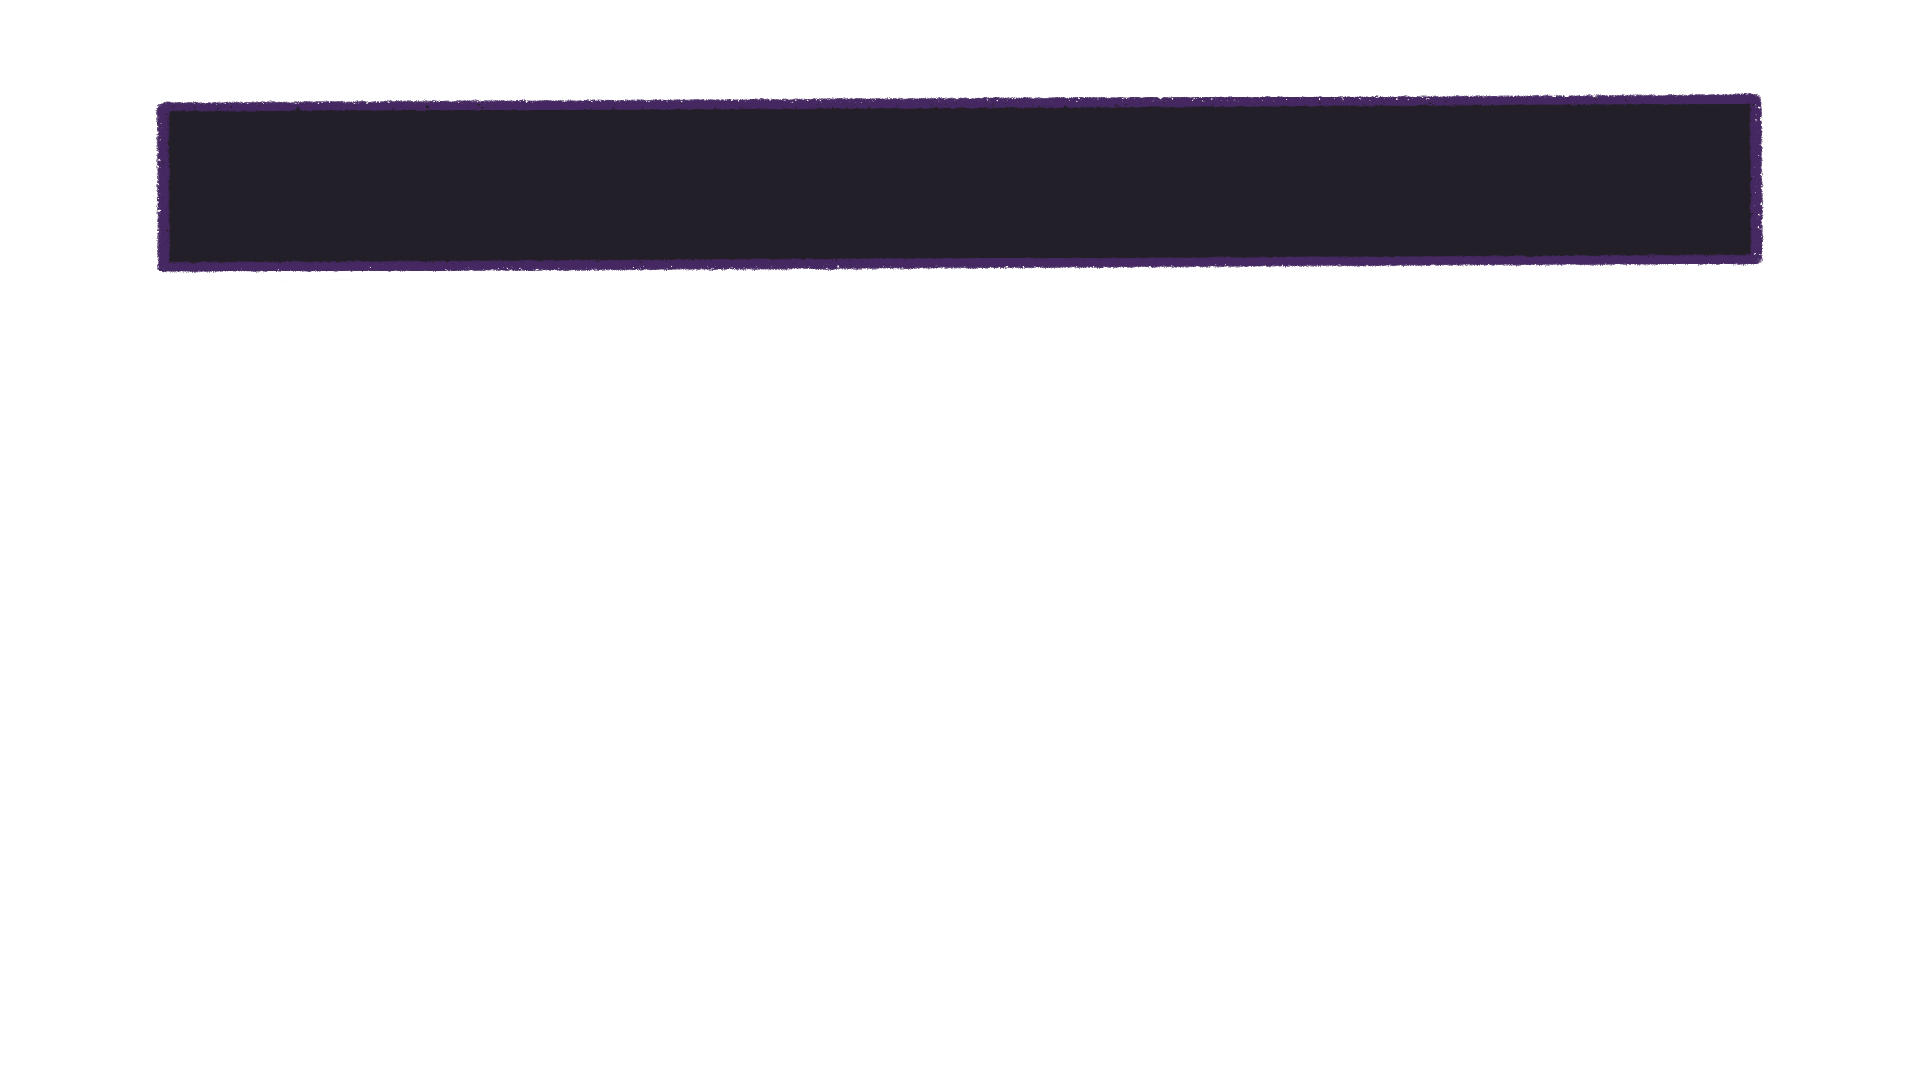
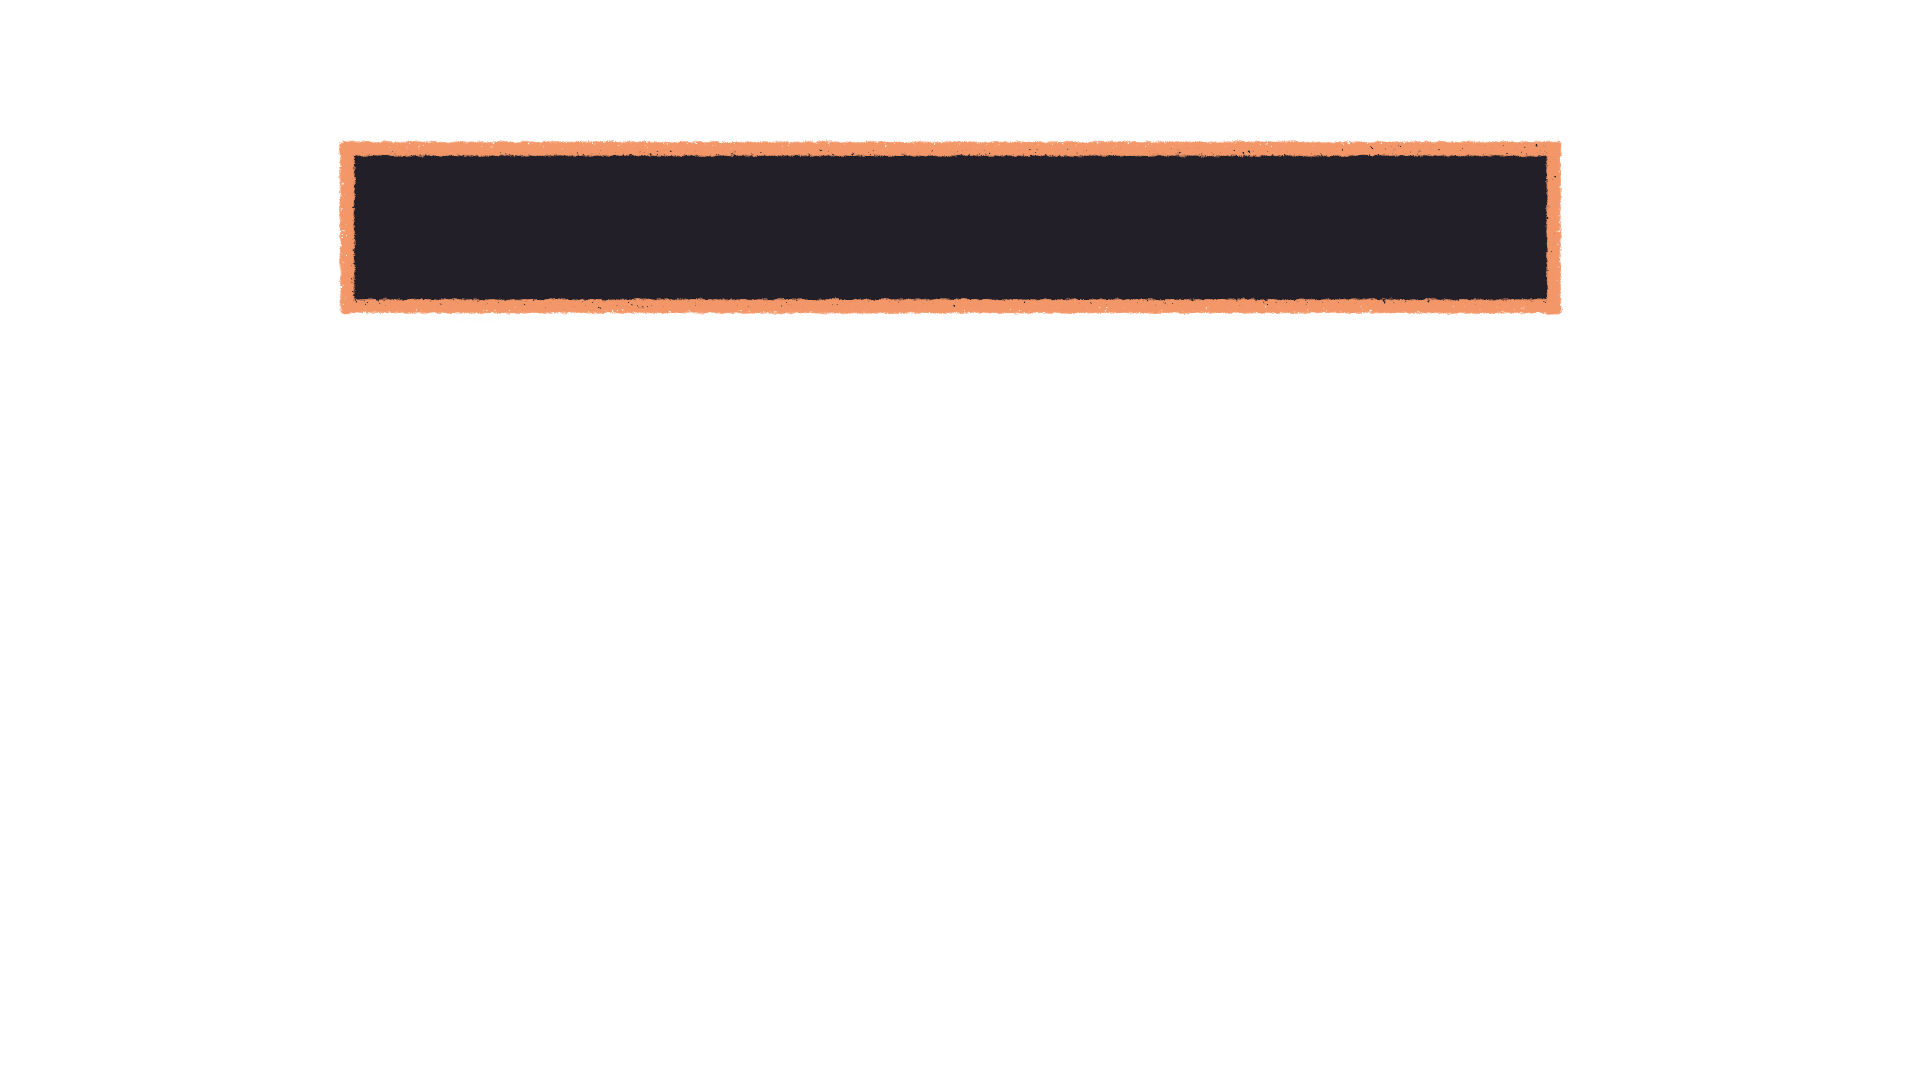
new qr border

Changed region(s): [[0.0625, 0.0611, 0.9375, 0.3056]]

diff --git a/display/style.css b/display/style.css
@@ -958,17 +958,17 @@ body {
 
 #qrcode1,
 #qrcode2 {
-    width: 210px;
+    width: 240px;
     height: 210px;
     position: absolute;
-    top: 35px;
-    z-index: 1000;
-    border: 8px solid rgb(247, 146, 100);
-    border-radius: 8px;
+    top: 111px;
+    z-index: 1001;
+    /* border: 8px solid rgb(247, 146, 100); */
+    /* border-radius: 8px; */
 }
 
 #qrcode1 {
-    left: 70px;
+    left: 55px;
 }
 
 #qrcode1 img,
@@ -978,7 +978,7 @@ body {
 }
 
 #qrcode2 {
-    right: 70px;
+    right: 61px;
 }
 
 
@@ -1026,7 +1026,7 @@ body {
 }
 
 .vote-banner-text {
-    top: 8.5vh;
+    top: 13vh;
     color: rgb(255, 189, 146);
     z-index: 60;
     position: absolute;
@@ -1034,7 +1034,7 @@ body {
     /* border: 1px solid red; */
     width: 74vw;
     height: 6vh;
-    font-size: 58px;
+    font-size: 80px;
     text-align: center;
     line-height: 2.5rem;
     font-weight: bolder;
@@ -1067,6 +1067,10 @@ body {
     border: 4px solid black;
     top: 4vh;
     left: 40px;
+}
+
+#QR-border {
+    z-index: 1000;
 }
 
 #health-bar {

diff --git a/display/scripts/helpers/voteHelpers.js b/display/scripts/helpers/voteHelpers.js
@@ -58,12 +58,15 @@ function displayVote(mainEl, extras, voteLength, data, type) {
 function promptVote(mainEl, extras, data, type) {
     let qrEl = document.getElementById("qrcode1")
     let qrEl2 = document.getElementById("qrcode2")
+    let qrBorder = document.getElementById("QR-border")
+
     qrEl.style.visibility = "visible"
     qrEl2.style.visibility = "visible"
-    qrEl.style.top = 0
-    qrEl.style.left = 0
-    qrEl2.style.top = 0
-    qrEl2.style.right = 0
+    qrBorder.style.visibility = "visible"
+    // qrEl.style.top = 0
+    // qrEl.style.left = 0
+    // qrEl2.style.top = 0
+    // qrEl2.style.right = 0
     const html = extras.filter(
         (extra) => extra.name === "votePrompt"
     )[0].content;

diff --git a/display/scripts/helpers/characterSelectAnimation.js b/display/scripts/helpers/characterSelectAnimation.js
@@ -47,8 +47,10 @@ function revealCharacter(charName, extras, confetti) {
 function displayChoice(winner, confetti) {
     let qrEl = document.getElementById("qrcode1")
     let qrEl2 = document.getElementById("qrcode2")
+    let qrBorder = document.getElementById("QR-border")
     qrEl.style.visibility = "hidden"
     qrEl2.style.visibility = "hidden"
+    qrBorder.style.visibility = "hidden"
     const voteTimeDiv = document.querySelector(".vote-time-wrapper")
 
     voteTimeDiv.style.visibility = "hidden"

diff --git a/display/html/default.html b/display/html/default.html
@@ -48,6 +48,7 @@
 
 
     </div>
+    <img class="complete-screen-img " id="QR-border" src="/display/assets/vote/QRBorder.PNG">
 
 
 </body>
